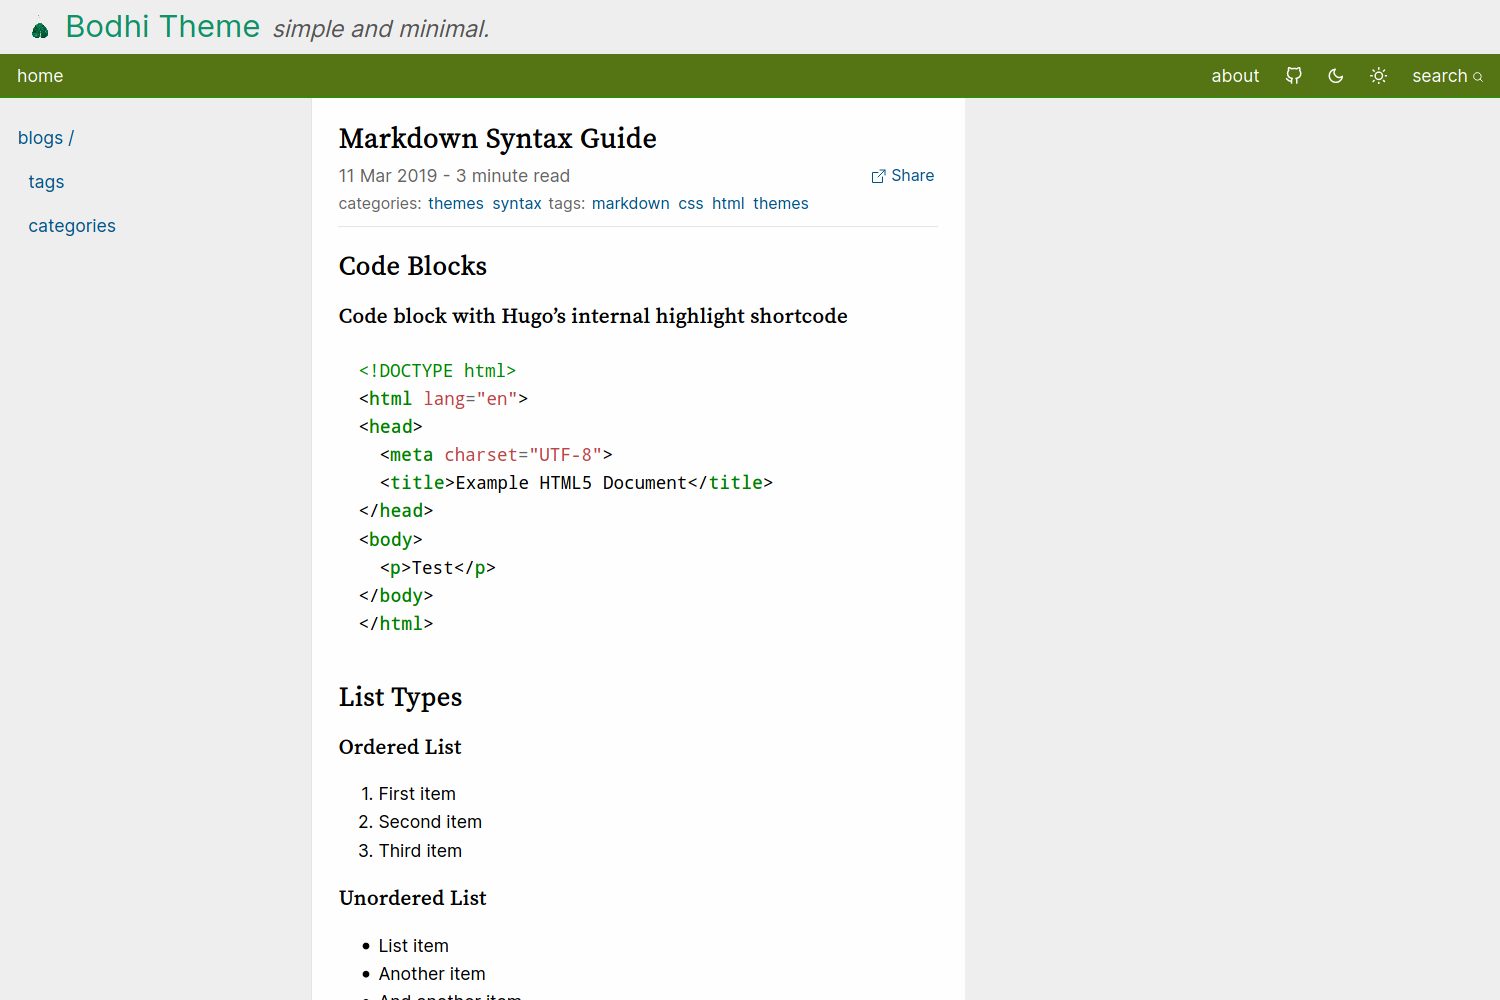
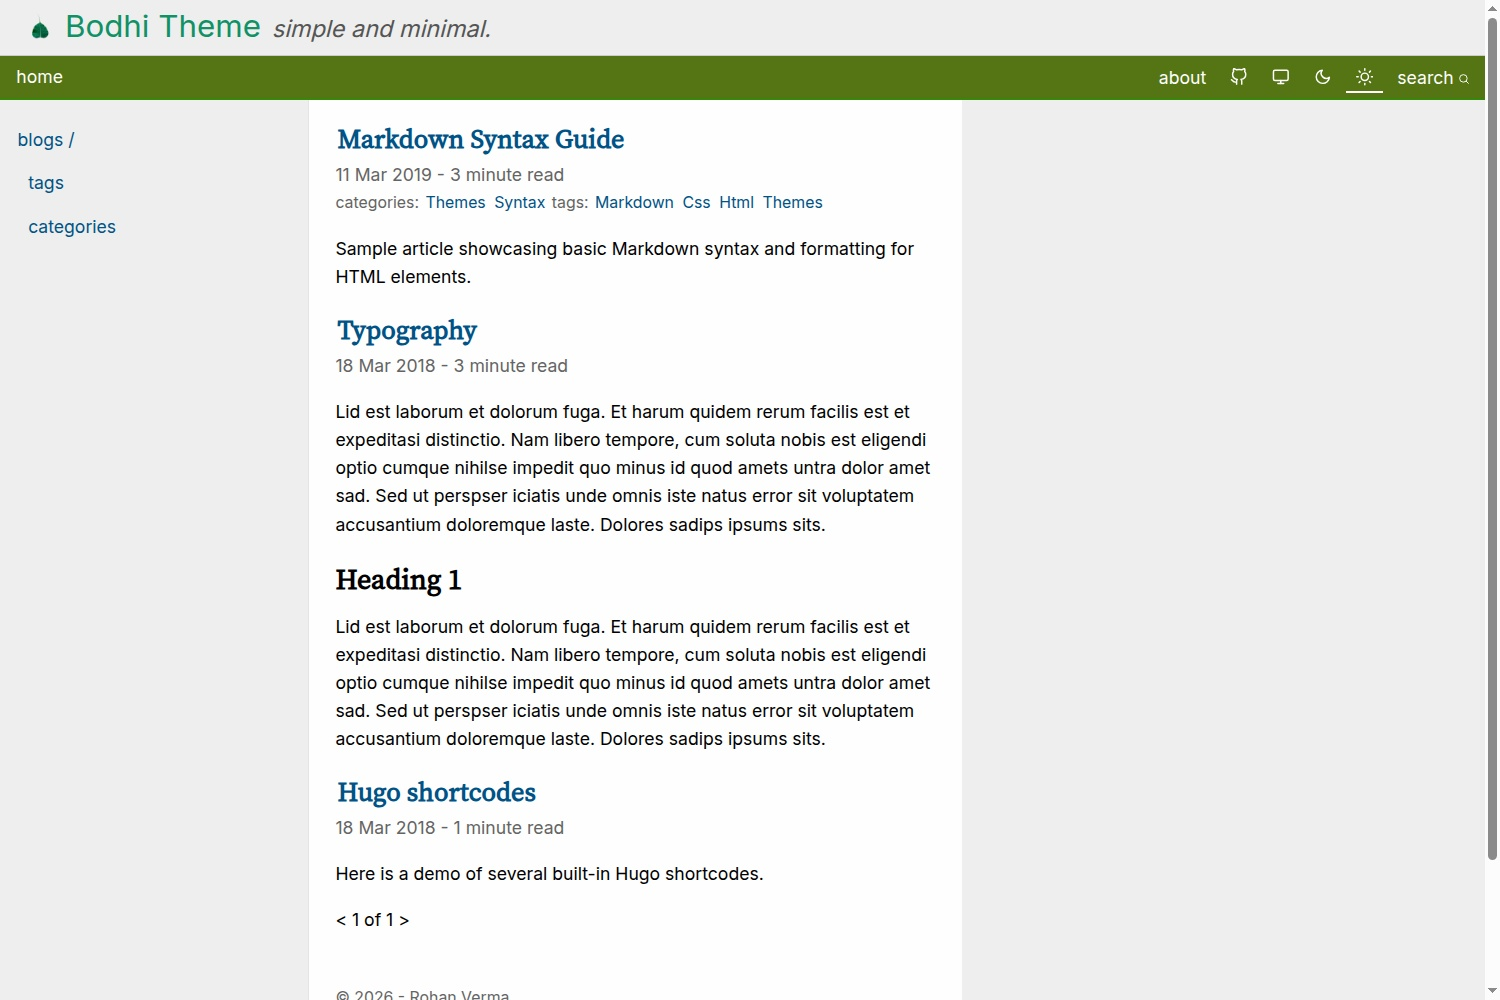
feat: publish Pages demo and refresh documentation

diff --git a/tests/check-example.py b/tests/check-example.py
@@ -1,4 +1,4 @@
-"""Check links and search in the example site built below /preview/."""
+"""Check links and search in the example site at the supplied base URL."""
 
 import json
 import sys
@@ -6,7 +6,7 @@ from html.parser import HTMLParser
 from pathlib import Path
 from urllib.parse import unquote, urljoin, urlsplit
 
-SITE = "https://example.com/preview/"
+SITE = sys.argv[2] if len(sys.argv) > 2 else "https://example.com/preview/"
 ORIGIN = urlsplit(SITE)
 
 
@@ -42,7 +42,7 @@ def main(output):
 
     index = json.loads((output / "index.json").read_text(encoding="utf-8"))
     assert "Markdown Syntax Guide" in {entry["title"] for entry in index}
-    assert all(urlsplit(entry["permalink"]).path != "/preview/search/" for entry in index)
+    assert all(urlsplit(entry["permalink"]).path != ORIGIN.path + "search/" for entry in index)
 
 
 if __name__ == "__main__":

diff --git a/README.md b/README.md
@@ -2,13 +2,13 @@
 
 Bodhi is a simple, minimal, personal website theme for Hugo.
 
-[Hugo Themes](https://themes.gohugo.io/themes/bodhi/) | [Github](https://github.com/rhnvrm/bodhi)
+[Live demo](https://rhnvrm.github.io/bodhi/) | [Hugo Themes](https://themes.gohugo.io/themes/bodhi/) | [GitHub](https://github.com/rhnvrm/bodhi)
 
 ## Previews
 
-![preview](https://rohanverma.net/projects/bodhi/preview.png)
+![Bodhi example site in light mode](images/screenshot.png)
 
-![preview_dark](https://rohanverma.net/projects/bodhi/preview_dark.png)
+![Bodhi example site in dark mode](images/screenshot-dark.png)
 
 ## Features
 
@@ -56,7 +56,7 @@ git submodule add https://github.com/rhnvrm/bodhi themes/bodhi
 
 ### Sample Config
 
-After cloning the submodule, you can need to update your hugo config.toml
+After cloning the submodule, update your site's `hugo.toml` or `config.toml`.
 
 You can use the following sample config file:
 
@@ -142,6 +142,10 @@ Keep `JSON` in the home outputs above and copy `exampleSite/content/search.md` t
 
 The Fathom configuration above uses the legacy self-hosted tracker. For hosted Fathom, use the embed script from your Fathom dashboard.
 
+## Demo deployment
+
+The [live demo](https://rhnvrm.github.io/bodhi/) builds `exampleSite` with Hugo 0.169.0 and deploys through GitHub Actions on every push to `master`. The Pages workflow checks generated links and the search index before deployment. In the repository's Pages settings, the build source must be **GitHub Actions**. You can also run **Deploy demo to Pages** manually from the Actions tab.
+
 ## Inspiration - suckless
 
-[suckless](https://suckless.org) is known for their focus on simplicity and clarity. Their website is a good example of simple website design. I really liked how they use the two-column design as a mini-sitemap. This tree layout, is something that is familiar and intuitive to a lot of people. This inspired me to build [Bodhi](/projects/bodhi) to have a two-column layout with the column showing a tree like column on the left. 
+[suckless](https://suckless.org) is known for their focus on simplicity and clarity. Their website is a good example of simple website design. I really liked how they use the two-column design as a mini-sitemap. This tree layout is familiar and intuitive to a lot of people. This inspired me to build [Bodhi](https://rhnvrm.github.io/bodhi/) with a tree of links in the left column.
